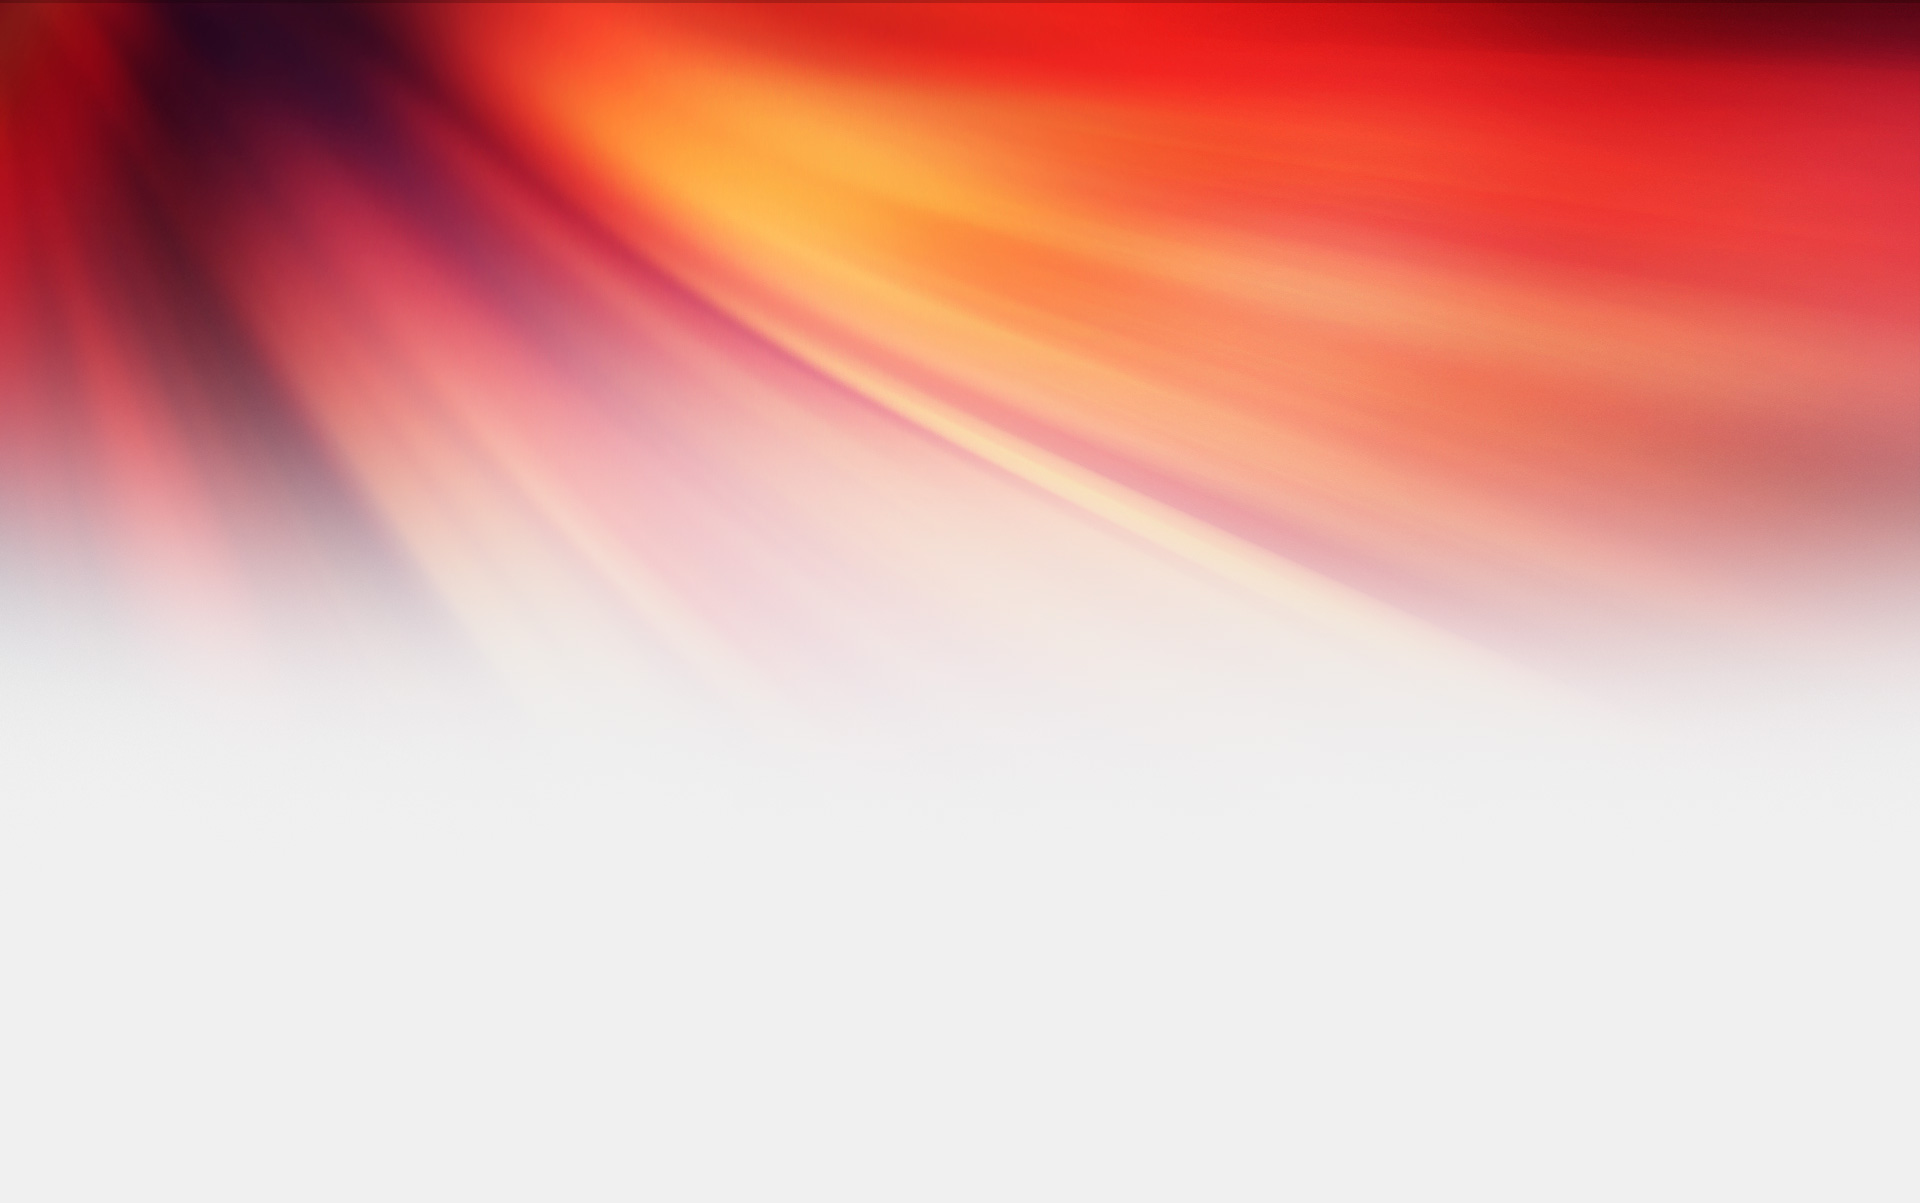
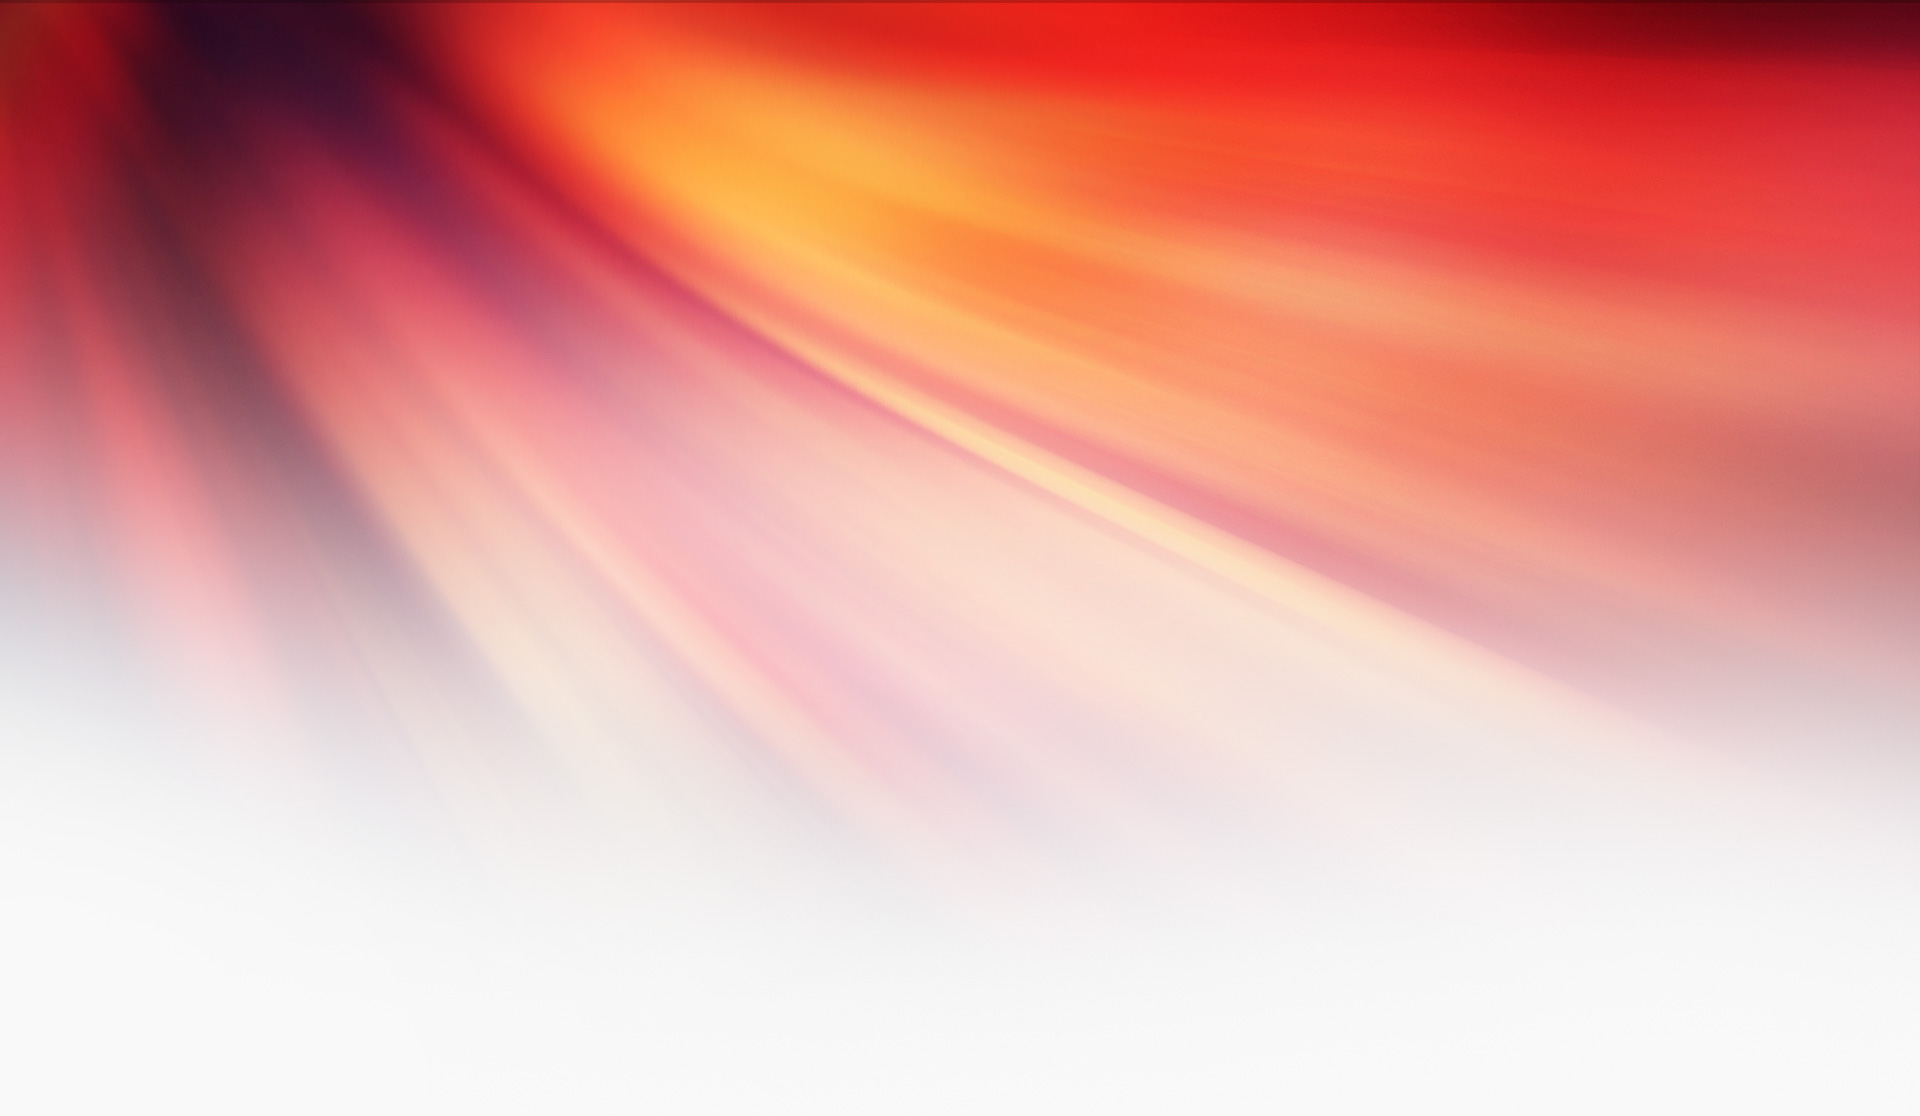
Fix urls

Changed region(s): [[0.3125, 0.2133, 1.0, 0.7007], [0.0, 0.3656, 0.5938, 0.7312]]

diff --git a/public/app/css/app.css b/public/app/css/app.css
@@ -5871,7 +5871,7 @@ ul {
   padding: 0px;
 }
 body {
-  background: #f0f0f0;
+  background: #F9F9F9;
   color: #333;
   font-family: Arial;
 }
@@ -6210,24 +6210,18 @@ a:hover {
   padding: 20px 0px;
 }
 .grid-products .product {
-  position: relative;
   float: left;
   width: 48.333333333333336%;
+  position: relative;
   min-height: 1px;
   padding-left: 15px;
   padding-right: 15px;
   background: #FFF;
-  margin-bottom: 20px;
+  margin: 20px 0px;
 }
-@media (min-width: 992px) {
+@media (min-width: 480px) {
   .grid-products .product {
-    margin-left: 5.833333333333333%;
-  }
-}
-@media (min-width: 992px) {
-  .grid-products .product {
-    float: left;
-    width: 25%;
+    margin-left: 0.8333333333333334%;
   }
 }
 @media (min-width: 768px) {
@@ -6241,9 +6235,15 @@ a:hover {
     width: 31.666666666666664%;
   }
 }
-@media (min-width: 480px) {
+@media (min-width: 992px) {
   .grid-products .product {
-    margin-left: 0.8333333333333334%;
+    margin-left: 5%;
+  }
+}
+@media (min-width: 992px) {
+  .grid-products .product {
+    float: left;
+    width: 25.833333333333336%;
   }
 }
 @media (max-width: 500px) {

diff --git a/public/app/css/products.less b/public/app/css/products.less
@@ -17,19 +17,19 @@
   padding:20px 0px;
 
   .product {
-    .make-md-column-offset(0.7);
-    .make-md-column(3);
-    .make-sm-column-offset(0.1);
-    .make-sm-column(3.8);
     .make-xs-column-offset(0.1);
     .make-xs-column(5.8);
+    .make-sm-column-offset(0.1);
+    .make-sm-column(3.8);
+    .make-md-column-offset(0.6);
+    .make-md-column(3.1);
     @media(max-width:500px) {
       .make-xs-column-offset(0);
       .make-xs-column(12);
     }
     background:#FFF;
 
-    margin-bottom:20px;
+    margin:20px 0px;
   }
 
   img{margin: 0px auto;}

diff --git a/public/app/css/app.less b/public/app/css/app.less
@@ -19,7 +19,7 @@ ul{ margin: 0px; padding: 0px;}
 body {
 //  background: #d0a28a;
 //  background: url('@{images}/large-bg.jpg') #FFF;
-  background:#f0f0f0;
+  background:#F9F9F9;
   color: #333;
   font-family: Arial;
 }

diff --git a/app/helpers/URL.php b/app/helpers/URL.php
@@ -23,9 +23,9 @@ class URL extends LaravelURL {
     public static function product(Product $product)
     {
         return static::route('product', array(
-            'category_name' => static::format($product->category->name),
-            'brand_name' => static::format($product->brand->name),
-            'title' => static::format('model-' . $product->model)
+            'category_name' => static::encode($product->category->name),
+            'brand_name' => static::encode($product->brand->name),
+            'title' => static::encode('model-' . $product->model)
         ));
     }
 
@@ -35,7 +35,7 @@ class URL extends LaravelURL {
      */
     public static function category(Category $category)
     {
-        return static::route('category', static::format($category->name));
+        return static::route('category', static::encode($category->name));
     }
 
     /**
@@ -44,7 +44,7 @@ class URL extends LaravelURL {
      */
     public static function brand(Brand $brand)
     {
-        return static::route('brand', static::format($brand->name));
+        return static::route('brand', static::encode($brand->name));
     }
 
 
@@ -52,8 +52,26 @@ class URL extends LaravelURL {
      * @param $title
      * @return string
      */
-    public static function format( $title )
+    public static function encode( $title )
     {
-        return \Illuminate\Support\Str::slug(strtolower($title));
+        $title = str_replace(' ', '-', $title);
+
+        $title = str_replace('&', '-and-', $title);
+
+        return strtolower($title);
+    }
+
+
+    /**
+     * @param $slug
+     * @return string
+     */
+    public static function decode( $slug )
+    {
+        $slug = str_replace('-and-', '&', $slug);
+
+        $slug = str_replace('-', ' ', $slug);
+
+        return strtolower($slug);
     }
 }

diff --git a/app/controllers/BaseController.php b/app/controllers/BaseController.php
@@ -85,9 +85,7 @@ class BaseController extends Controller {
 
         foreach($slugs as $slug)
         {
-            $slug = str_replace('-', ' ', $slug);
-
-            array_push($array, $slug);
+            array_push($array, URL::decode($slug));
         }
 
         return count($array) == 1 ? $array[0] : $array;
